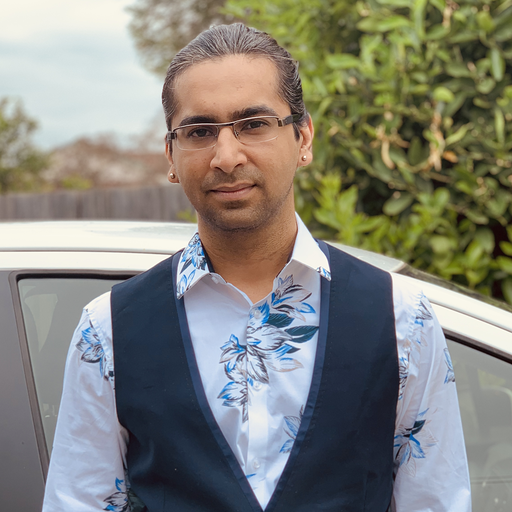
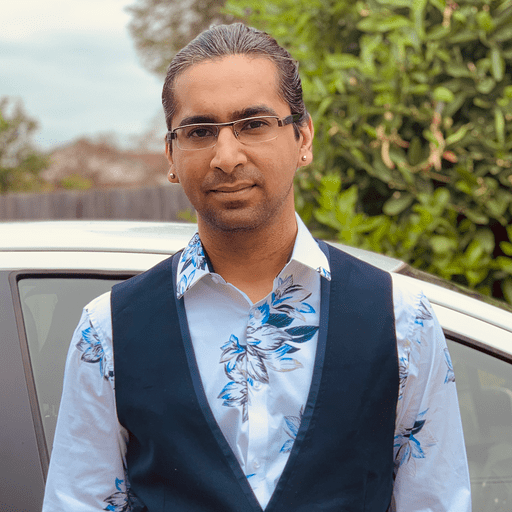
Compressed image and added purge css

diff --git a/tailwind.config.js b/tailwind.config.js
@@ -2,6 +2,9 @@ const defaultTheme = require("tailwindcss/defaultTheme");
 const plugin = require("tailwindcss/plugin");
 
 module.exports = {
+  purge: [
+    "./src/**/*.vue"
+  ],
   theme: {
     /* For Letter size */
     screens: {
@@ -71,13 +74,11 @@ module.exports = {
       },
     },
   },
-
   variants: {
     textColor: ["responsive", 'hover', 'focus', 'group-hover'],
     margin: ["responsive", "last", "first"],
     padding: ["responsive", "last"],
   },
-
   plugins: [
     plugin(function ({ addBase, addUtilities, theme }) {
       addBase({

diff --git a/babel.config.js b/babel.config.js
@@ -1,5 +1,5 @@
 module.exports = {
   presets: [
-    '@vue/app',
+    '@vue/app'
   ],
 };
